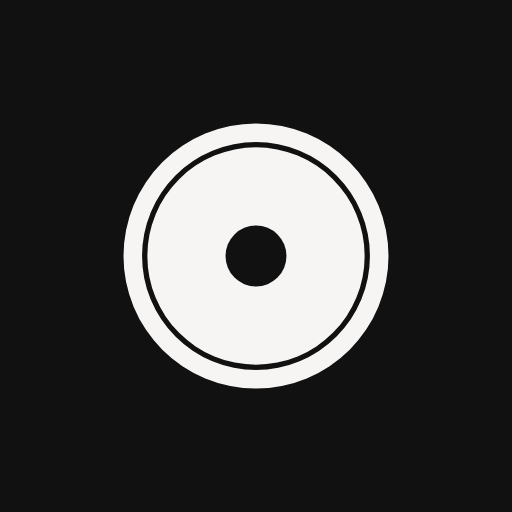
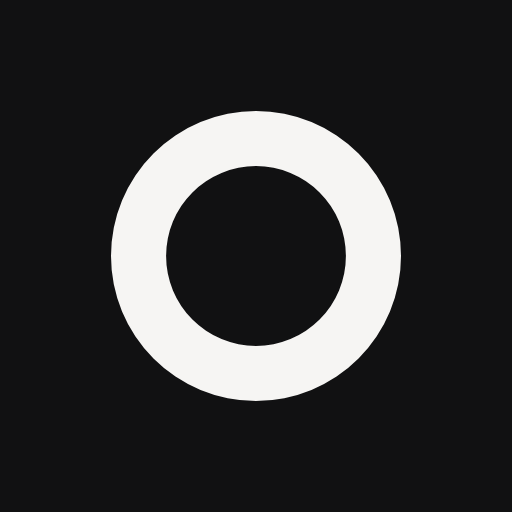
brand: one ring
The four-ring plate was more faithful to a real weight plate and worse as a
mark. At any size a phone actually renders it, four concentric edges collapse
into grey mush, and as the wordmark's O a solid disc read as a bullet. Detail
that only survives at 512px is decoration.

One closed band instead. It is still a plate seen from the front, still the 0
in 0G, still the shape a token has always had — and it is the same object at
110px and at 16px, which is the only test a favicon and an app icon both have
to pass.

Redrawn across the favicon, both PWA icons, the login mark, the wordmark's O,
the loading glyph and the coach card. Still inline SVG taking currentColor, so
ink on paper, paper on ink and ember all come from one drawing.

555 tests green.

Changed region(s): [[0.2188, 0.2188, 0.7812, 0.7812]]

diff --git a/frontend/src/components/Logo.jsx b/frontend/src/components/Logo.jsx
@@ -1,20 +1,23 @@
 /**
  * The mark.
  *
- * A weight plate, drawn as one even-odd path of concentric circles: the outer
- * band, a thin lip, the face, and the hole. It is three things at once and all
- * of them are the product — a plate is what gets lifted, the shape is the 0 in
- * 0G, and a disc with a hole is what a token has always looked like.
+ * One ring. A weight plate seen from the front, the 0 in 0G, and the shape a
+ * token has always had — and because it is a single closed band, it is the same
+ * object at 110px and at 16px.
  *
- * Inline SVG rather than an image so it takes `currentColor`: ink on paper,
- * paper on ink, ember where it is the action. One drawing, no variants to keep
- * in step. `ring` is the same object hollowed for use as the O in the wordmark,
- * where a solid disc read as a bullet.
+ * The first version drew the plate properly: outer band, lip, face, hole. It
+ * was more faithful and worse. At any size a phone actually renders it, four
+ * concentric edges collapse into grey mush, and the wordmark's O read as a
+ * bullet. Detail that only survives at 512px is decoration.
+ *
+ * Inline SVG rather than an image so it takes `currentColor` — ink on paper,
+ * paper on ink, ember where it is the action, from one drawing.
  */
 const circle = (r) => `M${120 - r},120a${r},${r} 0 1,0 ${2 * r},0a${r},${r} 0 1,0 -${2 * r},0`
 
-const PLATE = [100, 86, 82, 23].map(circle).join(' ')
-const RING = [100, 68, 60, 56].map(circle).join(' ')
+const PLATE = [100, 62].map(circle).join(' ')
+/* Slightly thinner as a letter, so it sits at the wordmark's stroke weight. */
+const RING = [100, 66].map(circle).join(' ')
 
 export default function Logo({ size = 24, ring = false, className = '', ...rest }) {
   return (
